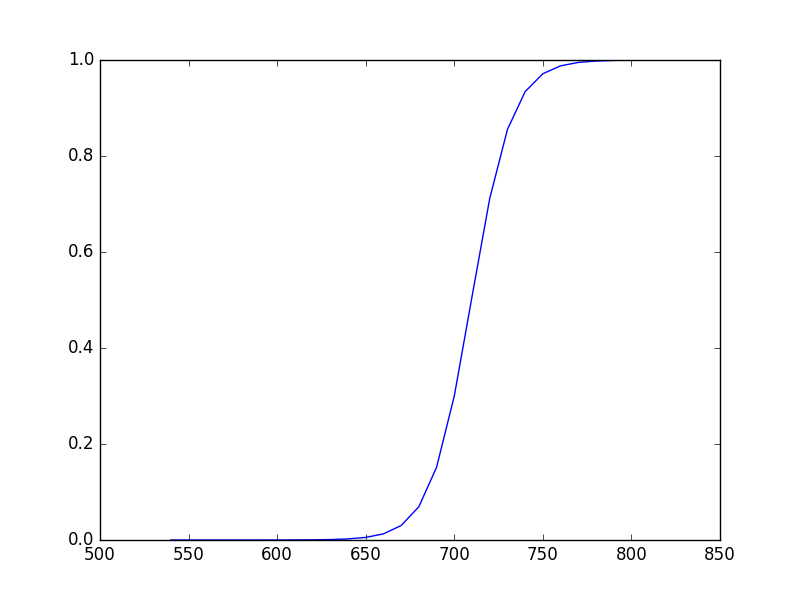
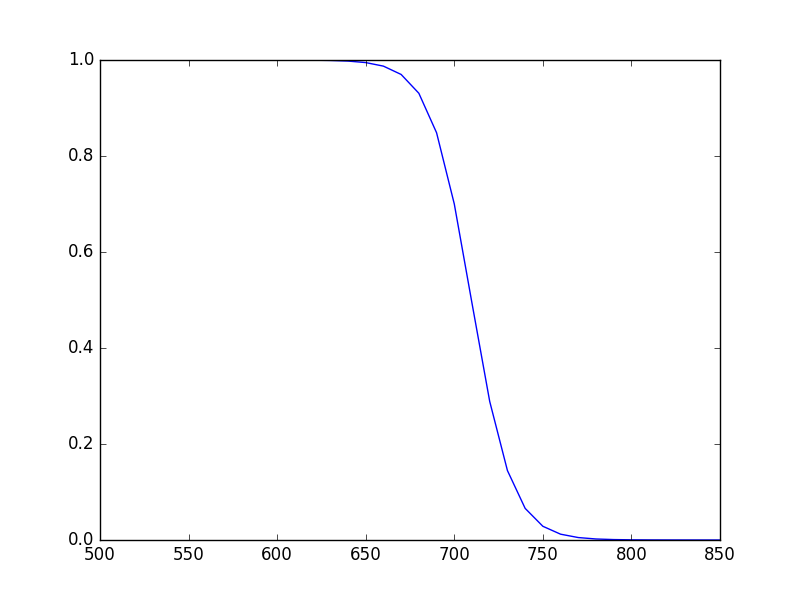
reverse sign of logistic fn

diff --git a/logistic_regression.py b/logistic_regression.py
@@ -25,6 +25,7 @@ def splitSum(s):
 loansData['Interest.Rate'] = loansData['Interest.Rate'].apply(lambda s: float(s.rstrip('%')))
 loansData['IR_TF'] = loansData['Interest.Rate'].apply(lambda x: 0 if x<12 else 1)
 # python ternary if syntax is goofy
+# really it should be '1 if x<12 else 0' if 1 True, 0 False since x<12 is happier outcome
 loansData['Loan.Length'] = loansData['Loan.Length'].apply(lambda s: int(s.rstrip(' months')))
 # loansData['FICO.Score'] = loansData['FICO.Range'].map(lambda s: int(s.split('-')[0]))
 loansData['FICO.Score'] = loansData['FICO.Range'].apply(splitSum)
@@ -74,8 +75,9 @@ result = logit.fit()
 print 'fit coefficients:\n', result.params
 
 # Why do my coefficients have opposite sign of thinkful notes?
+# Because IR_TF lambda expression is backwards?
 
-def logistic_fn(loanAmount, fico, params):
+def logistic_fn_orig(loanAmount, fico, params):
 #   a1 = -0.0875    # approximate hard-coded values to start
 #   a2 =  0.000174
 #   b  =  60.347
@@ -86,10 +88,27 @@ def logistic_fn(loanAmount, fico, params):
     p  = 1 / (1 + np.exp( b + a1 * fico + a2 * loanAmount ))
     return p
 
-def pred(loanAmount, fico, params):
+def logistic_fn(loanAmount, fico, params):
+    a1 = -params['FICO.Score']
+    a2 = -params['Amount.Requested']
+    b  = -params['Intercept']
+    p  = 1 / (1 + np.exp( b + a1 * fico + a2 * loanAmount ))
+    return p
+
+def pred_orig(loanAmount, fico, params):
     msg = '  You will '
     p = logistic_fn(loanAmount, fico, params)
     if float(p) < 0.7:
+#   if float(p) < 0.3:  # if IR_TF backwards, compare to 1.0 - 0.7 = 0.3?
+        msg += 'NOT '
+    msg += 'get the loan for under 12 percent.'
+    return msg
+
+def pred(loanAmount, fico, params):
+    msg = '  You will '
+    p = logistic_fn(loanAmount, fico, params)
+#   if float(p) > 0.7:
+    if float(p) > 0.3:  # if IR_TF backwards, compare to 1.0 - 0.7 = 0.3?
         msg += 'NOT '
     msg += 'get the loan for under 12 percent.'
     return msg
@@ -98,8 +117,10 @@ print 'logistic values:\nloan  fico probability'
 print 10000, 750, logistic_fn(10000, 750, result.params), pred(10000, 750, result.params)
 print 10000, 720, logistic_fn(10000, 720, result.params), pred(10000, 720, result.params)
 print 10000, 710, logistic_fn(10000, 710, result.params), pred(10000, 710, result.params)
+print 10000, 700, logistic_fn(10000, 700, result.params), pred(10000, 700, result.params)
+print 10000, 690, logistic_fn(10000, 690, result.params), pred(10000, 690, result.params)
 
-print '\nThe probability that we can obtain a loan at less than 12 percent interest for $10000 USD with a FICO score of 720 is: %.1f percent.  It is more likely than not we will get the loan for under 12 percent.' % ( 100 * logistic_fn(10000, 720, result.params) )
+print '\nThe probability that we can obtain a loan at less than 12 percent interest for $10000 USD with a FICO score of 720 is: %.1f percent.  It is more likely than not we will get the loan for under 12 percent.' % ( 100 - 100 * logistic_fn(10000, 720, result.params) )
 
 plt.clf()
 fico_array = range(540, 860, 10)
